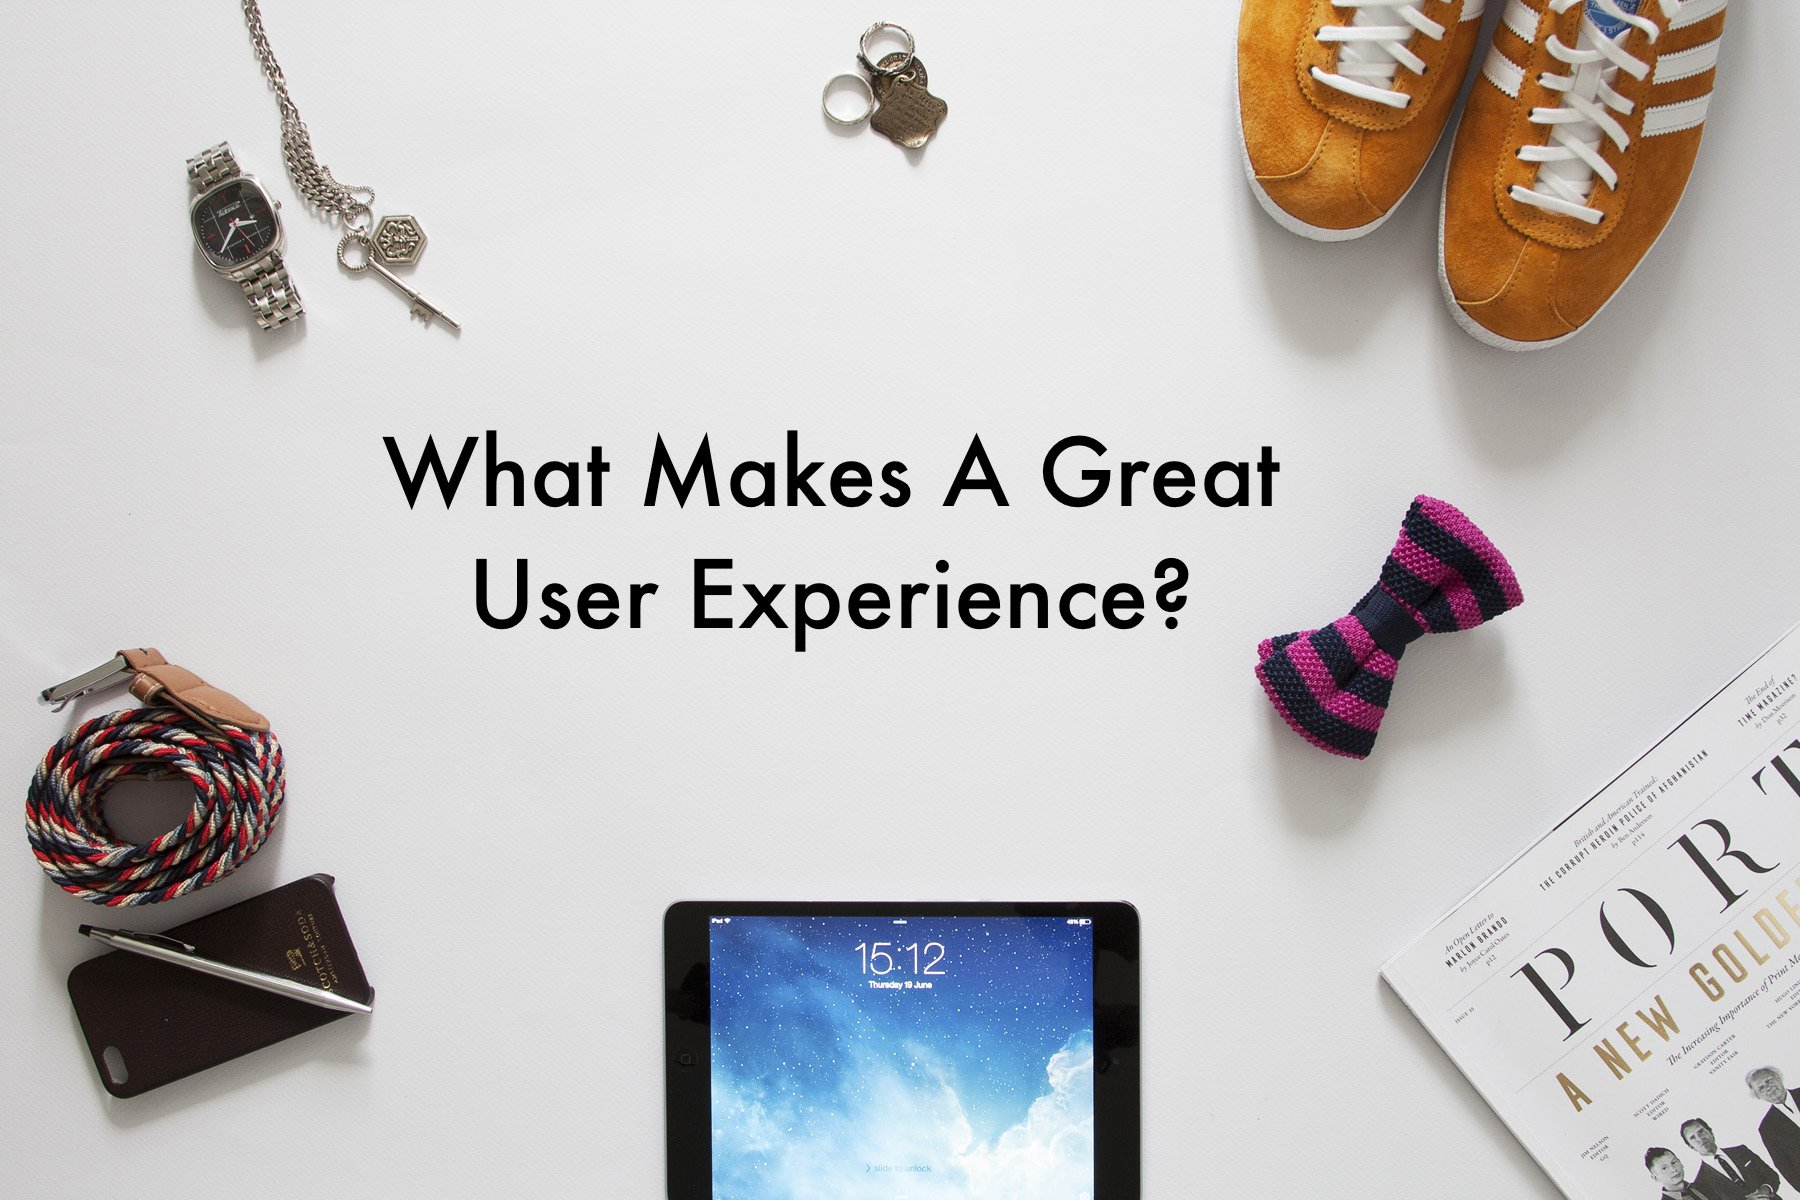
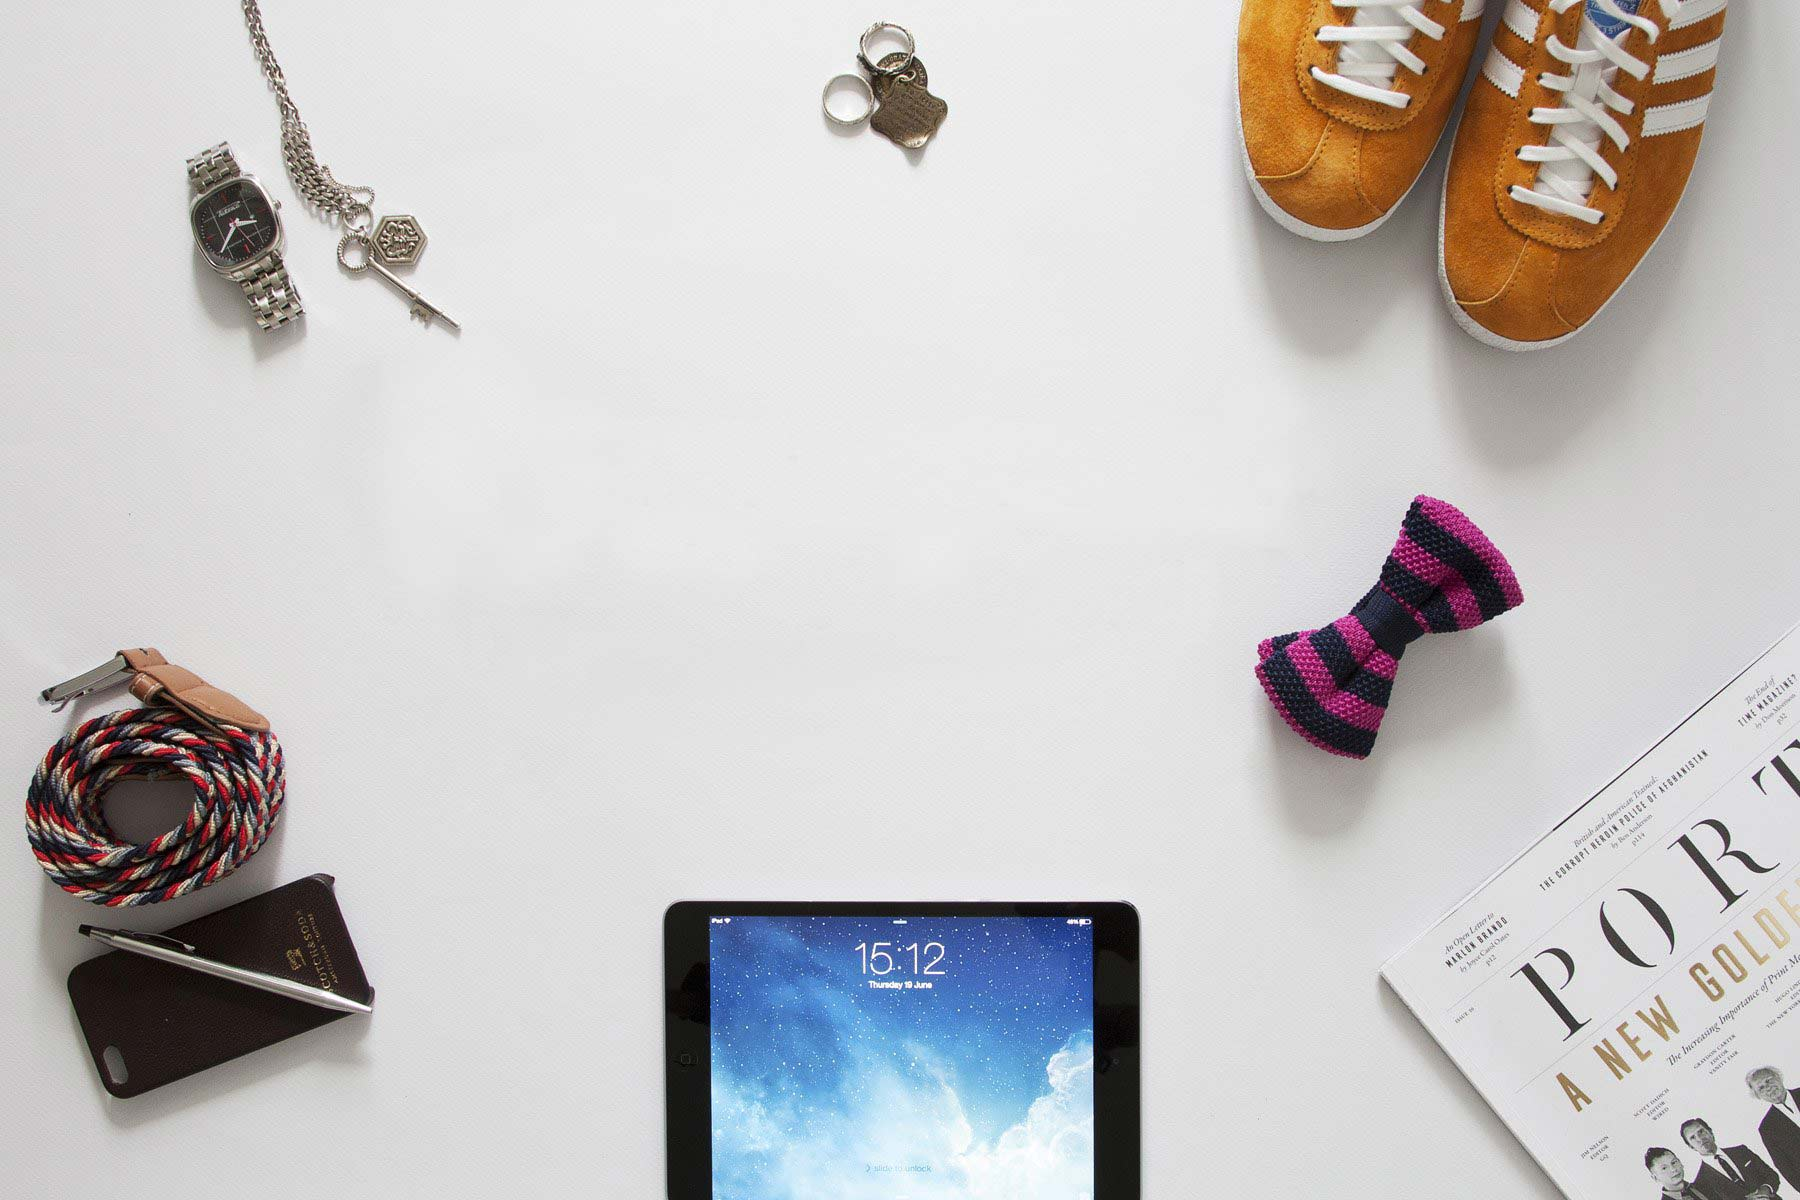
Added H1 to background image

Changed region(s): [[0.2178, 0.3392, 0.7156, 0.4317], [0.2489, 0.4625, 0.6844, 0.555]]

diff --git a/assets/css/style.css b/assets/css/style.css
@@ -54,11 +54,21 @@ p {
 }
 
 /* HEADER SECTION */
+#header {
+  background: url("../img/header.jpg") no-repeat center top;
+  min-height: 700px;
+  width: 100%;
+  background-size: 100%;
+  background-size: cover;
+}
 
 #header h1 {
+  width: 100%;
+  height: 100%;
   font-weight: 900;
-  color: #03c9a9;
-  font-size: 90px;
+  color: black;
+  font-size: 60px;
+  margin-top: 300px; 
 }
 
 #header h2 {

diff --git a/index.html b/index.html
@@ -39,7 +39,11 @@
   <!--  ********** HEADER SECTION ********** -->
   <div id="header">
     <div class="row centered">
-      <img src="assets/img/header.jpg" width="100%" height="100%">
+      
+      <div class="col-md text-center">
+          <h1>What Makes A Great User Experience?</h1>
+      </div>
+        
     </div>
     <!--/row -->
   </div>
